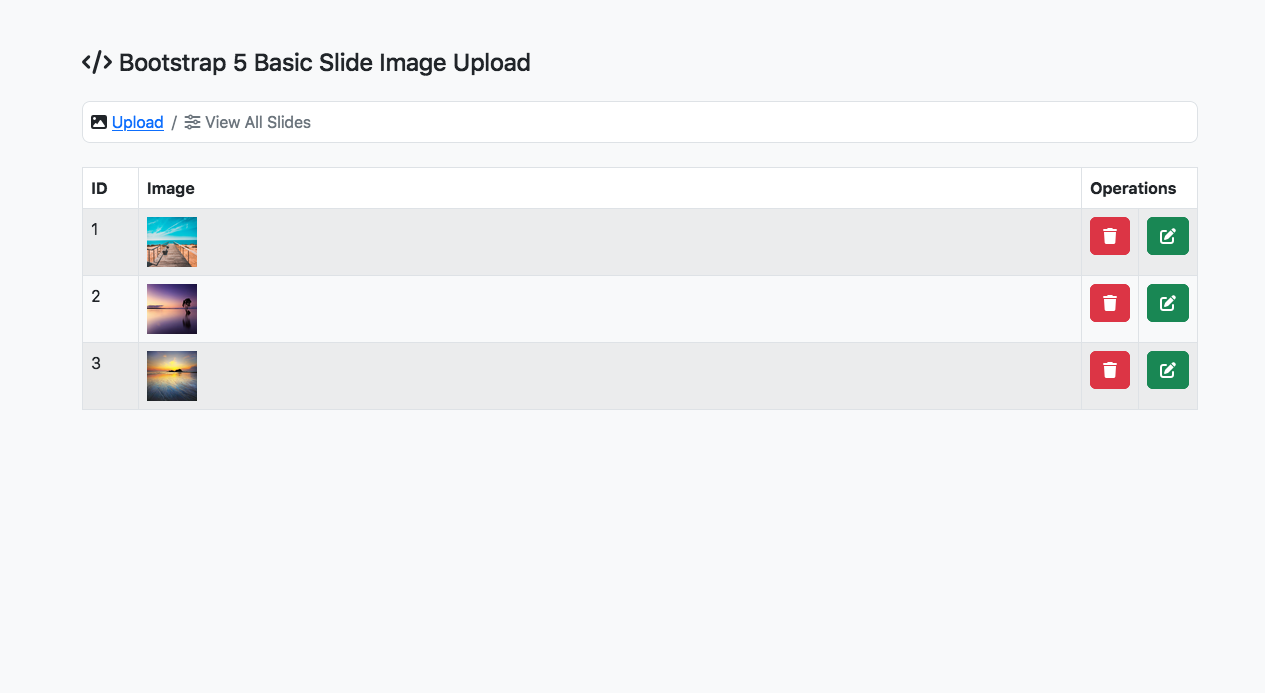
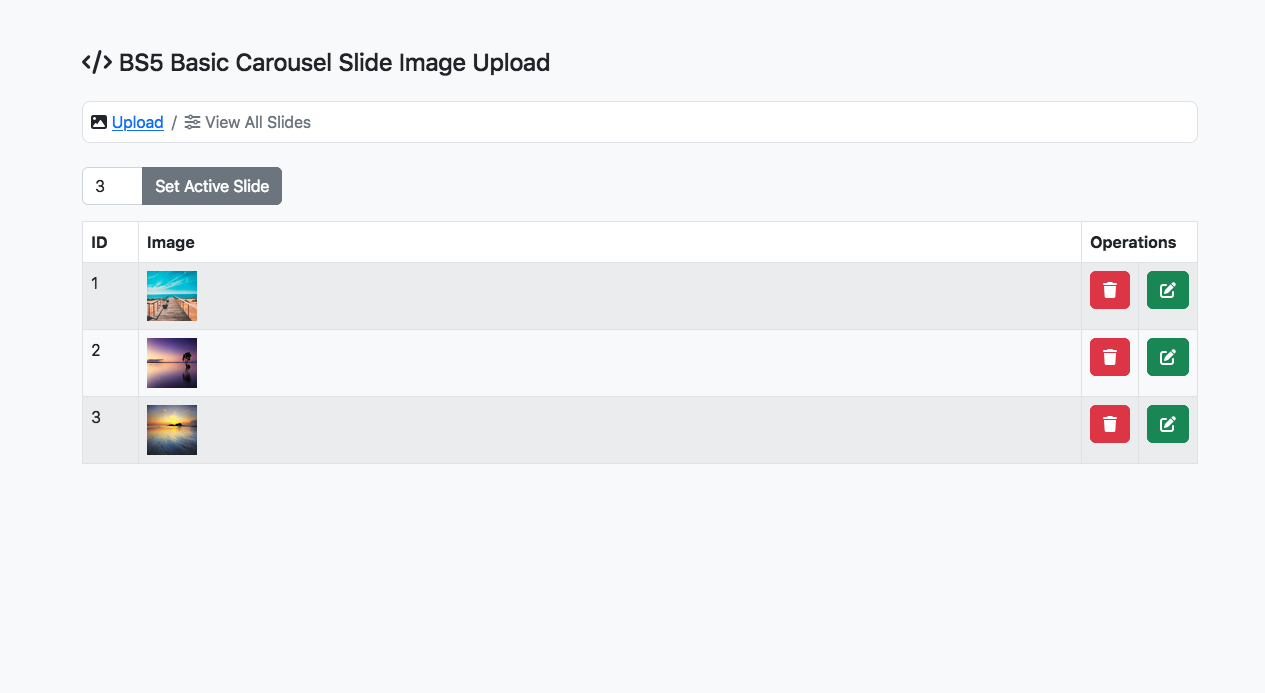
slide active
minor changes
- update previews
- set active status from view all slides page

This basic example still is just a simple focus on the image upload / edit side of things and has to have nay sort of additional features of carousel like indicators, urls or captions as that was not the initial goal of this example, though that is not to say such may or may not be added to existing basic example at some point or not

Changed region(s): [[0.0617, 0.2424, 0.2466, 0.6667], [0.8632, 0.2424, 0.9557, 0.6364], [0.0925, 0.0606, 0.4316, 0.1212]]

diff --git a/BS5-Basic-Carousel-Slide-Image-Upload/Upload/index.html b/BS5-Basic-Carousel-Slide-Image-Upload/Upload/index.html
@@ -40,7 +40,7 @@
            <!-- Container -->
            <div class="container mt-5">
            	 <!-- Heading -->
-           	 <h4><i class="fa-solid fa-code"></i> Bootstrap 5 Basic Carousel Slide Image Upload</h4>
+           	 <h4><i class="fa-solid fa-code"></i> BS5 Basic Carousel Slide Image Upload</h4>
                 <!-- Breadcrumb -->
                 <ol class="breadcrumb mb-2 mt-4 p-2 bg-white border border-default rounded-3">
                      <li class="breadcrumb-item"><i class="fa-solid fa-dashboard"></i> <a href="index.html">Dashboard</a></li>    
@@ -97,12 +97,13 @@
 <code class="language-sql">
 CREATE TABLE IF NOT EXISTS `slides` (
 `slide_id` INT(11) PRIMARY KEY AUTO_INCREMENT,
-`slide_image` TEXT NOT NULL
+`slide_image` TEXT NOT NULL,
+`slide_status` INT NOT NULL
 );
 
-INSERT INTO `slides` VALUES('1', '1666766964.jpg');
-INSERT INTO `slides` VALUES('2', '1666767091.jpg');
-INSERT INTO `slides` VALUES('3', '1666767152.jpg');</code>
+INSERT INTO `slides` VALUES('1', '1666766964.jpg', '1');
+INSERT INTO `slides` VALUES('2', '1666767091.jpg', '0');
+INSERT INTO `slides` VALUES('3', '1666767152.jpg', '0');</code>
 </pre>
                        	<!-- Alert -->
                        	<div class="alert alert-warning m-1 mb-2 mt-2"><i class="fa-solid fa-exclamation-circle m-2"></i> In example connection file: db.php find and edit the db connections.</div>

diff --git a/BS5-Basic-Carousel-Slide-Image-Upload/Upload/view_all_slides.php b/BS5-Basic-Carousel-Slide-Image-Upload/Upload/view_all_slides.php
@@ -21,7 +21,88 @@
                      <li class="breadcrumb-item"><?php echo $is_current_dir_icon; ?><a href="../<?php echo $is_current_dir; ?>"><?php echo $is_current_dir; ?></a></li>                   
                      <li class="breadcrumb-item active"><?php echo $is_current_page_icon; ?><?php echo $is_current_page; ?></li>
                 </ol>
-                
+
+                <!-- Form -->
+                <form action="" method="post">
+                	<div class="mb-3">
+                		<div class="input-group" style="width: 200px;">
+                           <select name="active_status" class="form-control">
+
+                             <option value="" disabled selected="selected">Select</option>
+      
+                                <?php
+                                    /*
+                                     * Simple Carousel Slide Image Upload (BS5)
+                                     * Author - ic-myXMB
+                                     */  
+
+                                     // Connect to database
+                                     // Include db connect 
+                                     include("db.php");
+
+                                     // Do DB function
+                                     doDB();
+
+                                     // Query Select
+                                     $sql = "SELECT * FROM `slides`";
+                                     $slides = mysqli_query($mysqli, $sql);
+
+                                     // While
+                                     while ($row = mysqli_fetch_assoc($slides)) {
+
+                                     // Slide ID	
+                                     $slide_id = $row['slide_id'];
+
+                                     // Slide Status
+                                     $slide_status = $row['slide_status'];
+
+                                 ?>
+
+                             <option value="<?php echo $slide_id; ?>"<?php echo ($slide_status == '1') ? 'selected = "selected"' : '' ;?>><?php echo $slide_id; ?></option>
+ 
+                             <?php
+                                }
+                             ?>
+
+                           </select>
+                             <input type="submit" class="btn btn-secondary" name="submit" value="Set Active Slide">
+                        </div>
+                    </div>
+                </form>
+
+                <?php
+                    // IF Post Submit
+                    if(isset($_POST['submit'])) {
+
+                       // If not empty Post Active status	
+                       if(!empty($_POST['active_status'])) {
+
+                       	 // Selected
+                    	 $selected = $_POST['active_status'];
+
+                         // Query Update
+                         $sql = "UPDATE `slides` SET slide_status = IF(slide_id = '$selected', 1, 0)";
+                         $result = mysqli_query($mysqli, $sql);
+
+                         // Echo Success
+                         echo '<div class="alert alert-success">Slide ID: ' . $selected.' was selected.</div>';
+
+                		 // Redirect
+                		 header("Refresh:1; url= slides.php", true, 303);
+
+                        } else {
+
+                         // Echo Please select an ID
+                         echo '<div class="alert alert-danger">Please select a slide ID.</div>';
+
+                         // Redirect
+                		 header("Refresh:1; url= slides.php", true, 303);
+
+                        }
+
+                    }
+                ?>
+
                 <!-- View All Slides Table -->
                 <div class="table-responsive">
                    <table class="table table-striped table-bordered">
@@ -37,13 +118,6 @@
                           * Simple Carousel Slide Image Upload (BS5)
                           * Author - ic-myXMB
                           */
-                         
-                         // Connect to database
-                         // Include db connect 
-                         include("db.php");
-
-                         // Do DB function
-                         doDB();
 
                          // File Slide Image Upload Directory  
                          $file_dir = "images/slides";                         
@@ -77,7 +151,7 @@
                             // If Is Get Delete 
                             if (isset($_GET['delete'])) {
 
-                             // Slide Id
+                             // Slide ID
                              $slide_id = $_GET['delete'];
 
                              // Query Delete

diff --git a/BS5-Basic-Carousel-Slide-Image-Upload/Upload/carousel.php b/BS5-Basic-Carousel-Slide-Image-Upload/Upload/carousel.php
@@ -3,7 +3,7 @@
     <head>
         <meta charset="utf-8" />
         <meta name="viewport" content="width=device-width, initial-scale=1, shrink-to-fit=no" />
-           <title>Demo - BS5 Basic Carousel</title>
+           <title>Demo - Carousel</title>
            <!-- CSS Files -->
            <!-- Bootstrap CSS -->  
            <link rel="stylesheet" href="includes/bootstrap/css/bootstrap.min.css" />
@@ -28,7 +28,7 @@
            <!-- Container -->
            <div class="container mt-5">
                 <!-- Heading -->
-                <h4><i class="fa-solid fa-code"></i> Bootstrap 5 Basic Carousel Slide Image Upload</h4>
+                <h4><i class="fa-solid fa-code"></i> BS5 Basic Carousel Slide Image Upload</h4>
                 <?php
                 // Demo Breadcrumb
 
@@ -53,7 +53,7 @@
                 </ol>
 
            	 <!-- Carousel -->
-             <div id="carouselExampleFade" class="carousel slide carousel-fade" data-bs-ride="carousel">
+             <div id="carouselDemoFade" class="carousel slide carousel-fade" data-bs-ride="carousel">
              	  <!-- Carousel Inner -->
                   <div class="carousel-inner">
                       <?php
@@ -80,7 +80,7 @@
                          while ($data_slide = mysqli_fetch_assoc($slides)) {
                          	
                              // Old Image
-                             $old_image = $data_slide['slide_image'];
+                             //$old_image = $data_slide['slide_image'];
 
                              // Slide ID     
                              $slide_id = $data_slide['slide_id'];
@@ -88,13 +88,22 @@
                              // Slide Image
                              $slide_image = $data_slide['slide_image'];
 
-				           // If Slide id equal to
-				           if ($slide_id === '1') {
+                             // Slide Status    
+                             $slide_status = $data_slide['slide_status'];                             
+
+				           // If Slide status equal to 1
+				           if ($slide_status === '1') {
+
 				             // is active status status
 				             $is_active = ' active';
-				           } else {
-				             // is active status
-				             $is_active = '';                    	
+
+				           } 
+				           // If Slide status equal to 0
+				           if ($slide_status === '0') {
+
+				             // is not active status
+				             $is_active = '';     
+				                            	
 				           }
 
                         ?><!-- Slide -->
@@ -105,11 +114,11 @@
                         }
                         ?>
                     </div>
-                    <button class="carousel-control-prev" type="button" data-bs-target="#carouselExampleFade" data-bs-slide="prev">
+                    <button class="carousel-control-prev" type="button" data-bs-target="#carouselDemoFade" data-bs-slide="prev">
                          <span class="carousel-control-prev-icon" aria-hidden="true"></span>
                          <span class="visually-hidden">Previous</span>
                     </button>
-                    <button class="carousel-control-next" type="button" data-bs-target="#carouselExampleFade" data-bs-slide="next">
+                    <button class="carousel-control-next" type="button" data-bs-target="#carouselDemoFade" data-bs-slide="next">
                         <span class="carousel-control-next-icon" aria-hidden="true"></span>
                         <span class="visually-hidden">Next</span>
                     </button>

diff --git a/BS5-Basic-Carousel-Slide-Image-Upload/Upload/edit_slide.php b/BS5-Basic-Carousel-Slide-Image-Upload/Upload/edit_slide.php
@@ -22,10 +22,10 @@
                      <li class="breadcrumb-item active"><?php echo $is_current_page_icon; ?><?php echo $is_current_page; ?></li>
                 </ol>
                 <?php
-                    /*
-                     * Simple Carousel Slide Image Upload (BS5)
-                     * Author - ic-myXMB
-                     */
+                   /*
+                    * Simple Carousel Slide Image Upload (BS5)
+                    * Author - ic-myXMB
+                    */ 
 
                     // Connect to database
                     // Include db connect
@@ -113,7 +113,6 @@
 
 		                      // Redirect
 		                      header("Refresh:2; url= slides.php?ops=edit_slide&slide_id=$Slide_ID", true, 303);	                                                        
-
                             }
 
 

diff --git a/BS5-Basic-Carousel-Slide-Image-Upload/Upload/add_slide.php b/BS5-Basic-Carousel-Slide-Image-Upload/Upload/add_slide.php
@@ -22,11 +22,11 @@
                      <li class="breadcrumb-item active"><?php echo $is_current_page_icon; ?><?php echo $is_current_page; ?></li>
                 </ol>
                 <?php
-                    /*
-                     * Simple Carousel Slide Image Upload (BS5)
-                     * Author - ic-myXMB
-                     */
-                
+                   /*
+                    * Simple Carousel Slide Image Upload (BS5)
+                    * Author - ic-myXMB
+                    */ 
+
                     // Connect to database
                     // Include db connect 
                     include("db.php");
